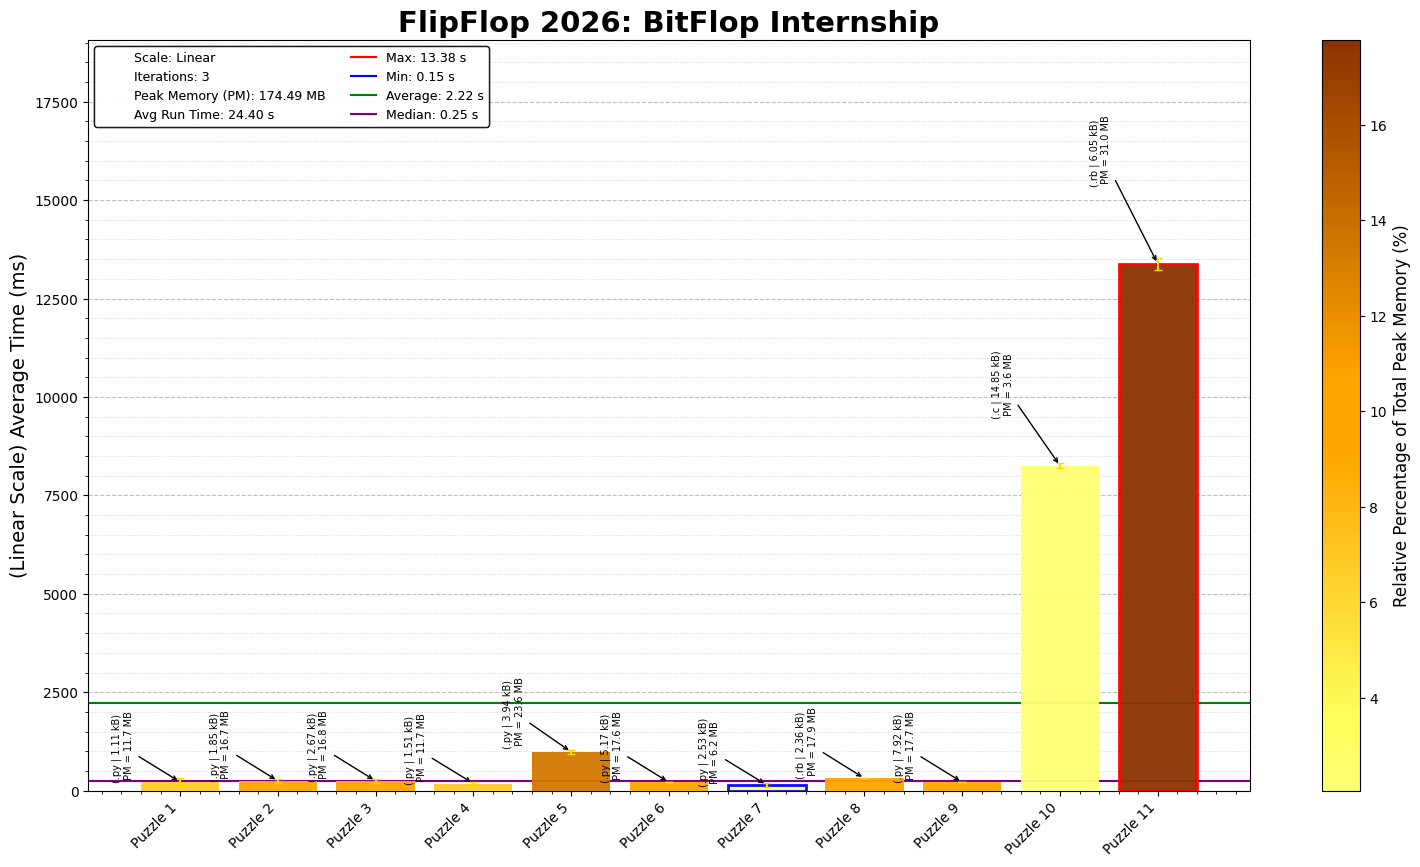
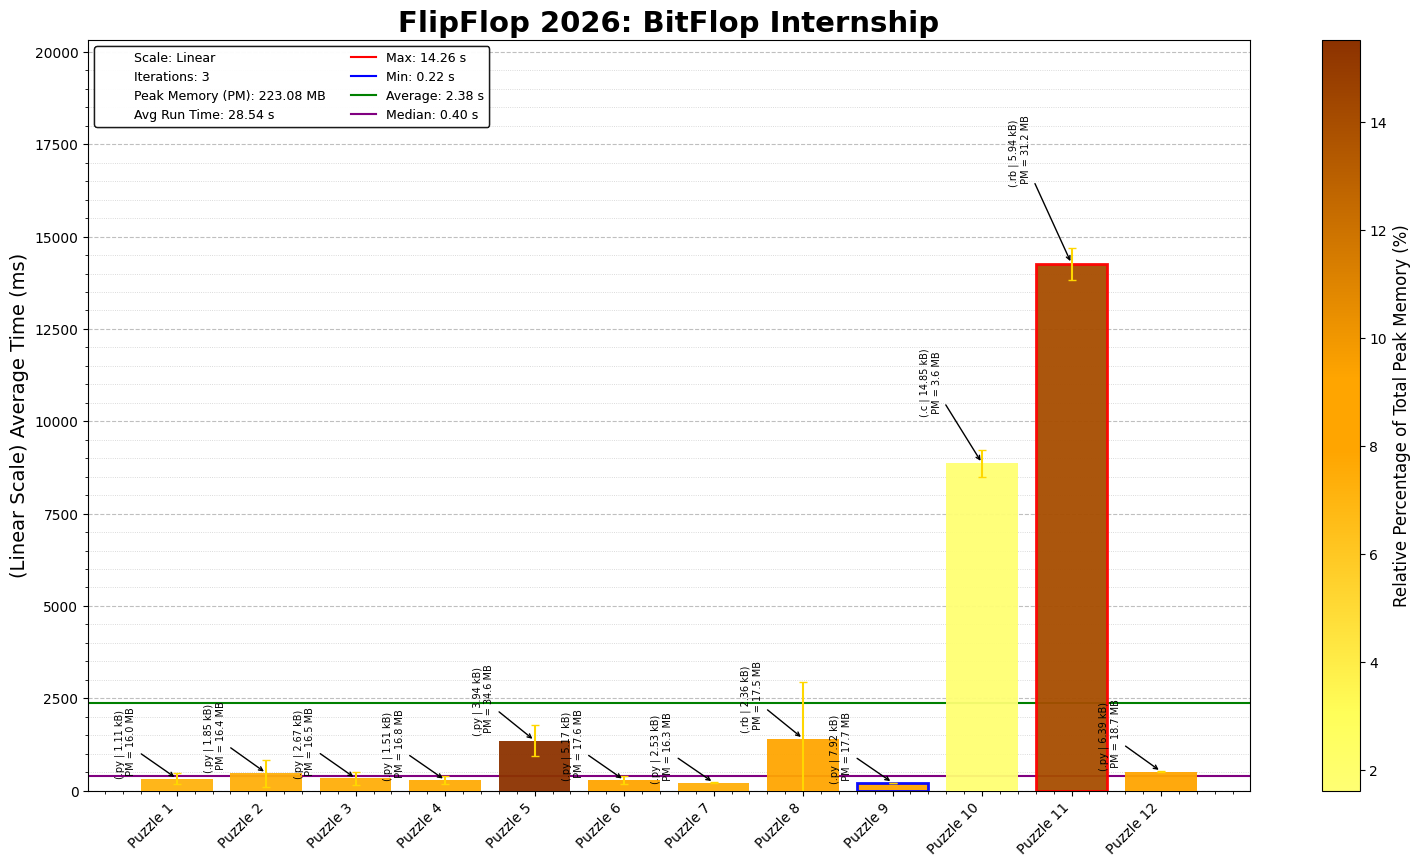
FlipFlop 2026 FINISHED

diff --git a/flipflop/2026/Puzzle_12/flipflop26_12.py b/flipflop/2026/Puzzle_12/flipflop26_12.py
@@ -15,20 +15,47 @@ input_path = Path(__file__).parent / input_file
 with input_path.open("r", encoding="utf-8") as f:
     data = f.read().split("\n\n")
 
-
 class FlipFlopBingo:
     def __init__(self, bingo_cards):
         self.bingo_cards = bingo_cards
 
     @staticmethod
-    def parse_2d_cards(bingo_cards):
+    def _check_bingos(marked_cards, valid_bingos):
+        bingo_count = 0
+        for marks in marked_cards.values():
+            for possible_bingo in valid_bingos:
+                if set(possible_bingo) <= marks:
+                    bingo_count += 1
+        return bingo_count
+
+    def play_bingo(self, calls, bingo_type = "2d"):
+        if bingo_type == "4d":
+            val_pos = self.parse_4d_cards(self.bingo_cards)
+            valid_bingos = self._find_4d_bingos(5, 5, 5, 5)
+        elif bingo_type == "3d":
+            val_pos = self._parse_3d_cards(self.bingo_cards)
+            valid_bingos = self._find_3d_bingos(5, 5, 5)
+        else:
+            val_pos = self._parse_2d_cards(self.bingo_cards)
+            valid_bingos = self._find_2d_bingos(5, 5)
+
+        marked_cards = defaultdict(set)
+        for val in calls.split():
+            for card_no, coord in val_pos[int(val)]:
+                marked_cards[card_no].add(coord)
+            if self._check_bingos(marked_cards, valid_bingos) >= 5:
+                return val
+        return -1
+
+    @staticmethod
+    def _parse_2d_cards(bingo_cards):
         val_pos = defaultdict(list)
         for card_no, card_data in enumerate(bingo_cards.split("\n")):
             numbers = [int(n) for n in card_data.split()]
             rows = [numbers[i:i + 5] for i in range(0, len(numbers), 5)]
             for row_no, row_data in enumerate(rows):
                 for col_no, val in enumerate(row_data):
-                    val_pos[int(val)].append((card_no, row_no, col_no))
+                    val_pos[int(val)].append((card_no, (row_no, col_no)))
         return val_pos
 
     @staticmethod
@@ -43,27 +70,91 @@ class FlipFlopBingo:
         return rows + cols + diagonals
 
     @staticmethod
-    def _check_bingos(marked_cards, valid_bingos):
-        bingo_count = 0
-        for marks in marked_cards.values():
-            for possible_bingo in valid_bingos:
-                if set(possible_bingo) <= marks:
-                    bingo_count += 1
-        return bingo_count
+    def _parse_3d_cards(bingo_cards):
+        val_pos = defaultdict(list)
+        grids = []
+        for line in bingo_cards.split("\n"):
+            numbers = [int(n) for n in line.split()]
+            rows = [numbers[i:i + 5] for i in range(0, len(numbers), 5)]
+            grids.append(rows)
+        cubes = [grids[i:i + 5] for i in range(0, len(grids), 5)]
 
-    def play_bingo(self, calls):
-        val_pos = self.parse_2d_cards(self.bingo_cards)
-        valid_bingos = self._find_2d_bingos(5, 5)
+        for cube_no, cube in enumerate(cubes):
+            for depth, grid in enumerate(cube):
+                for row_no, row in enumerate(grid):
+                    for col_no, val in enumerate(row):
+                        val_pos[val].append((cube_no,( row_no, col_no, depth)))
+        return val_pos
 
-        marked_cards = defaultdict(set)
-        for val in calls.split():
-            for card_no, row, col in val_pos[int(val)]:
-                marked_cards[card_no].add((row, col))
-            if self._check_bingos(marked_cards, valid_bingos) >= 5:
-                return val
-        return -1
+    @staticmethod
+    def _find_3d_bingos(total_rows, total_cols, total_depth, line_len=5):
+        dirs = [
+            (dx, dy, dz)
+            for dx in (-1, 0, 1) for dy in (-1, 0, 1) for dz in (-1, 0, 1)
+            if (dx, dy, dz) != (0, 0, 0)
+        ]
+        lines = set()
+        for x in range(total_rows):
+            for y in range(total_cols):
+                for z in range(total_depth):
+                    for dx, dy, dz in dirs:
+                        cells = [(x + dx*i, y + dy*i, z + dz*i) for i in range(line_len)]
+                        if all(0 <= cx < total_rows and 0 <= cy < total_cols and 0 <= cz < total_depth
+                            for cx, cy, cz in cells):
+                            lines.add(frozenset(cells))
+        return [sorted(line) for line in lines]
+
+    @staticmethod
+    def parse_4d_cards(bingo_cards):
+        val_pos = defaultdict(list)
+        grids = []
+        for line in bingo_cards.split("\n"):
+            numbers = [int(n) for n in line.split()]
+            rows = [numbers[i:i + 5] for i in range(0, len(numbers), 5)]
+            grids.append(rows)
+
+        cubes = [grids[i:i + 5] for i in range(0, len(grids), 5)]
+        hypercubes = [cubes[i:i + 5] for i in range(0, len(cubes), 5)]
+
+        for hc_no, hypercube in enumerate(hypercubes):
+            for w, cube in enumerate(hypercube):
+                for depth, grid in enumerate(cube):
+                    for row_no, row in enumerate(grid):
+                        for col_no, val in enumerate(row):
+                            val_pos[val].append((hc_no, (row_no, col_no, depth, w)))
+        return val_pos
+
+    @staticmethod
+    def _find_4d_bingos(total_rows, total_cols, total_depth, total_trice, line_len=5):
+        dirs = [
+            (dx, dy, dz, dw)
+            for dx in (-1, 0, 1)
+            for dy in (-1, 0, 1)
+            for dz in (-1, 0, 1)
+            for dw in (-1, 0, 1)
+            if (dx, dy, dz, dw) != (0, 0, 0, 0)
+        ]
+        lines = set()
+        for x in range(total_rows):
+            for y in range(total_cols):
+                for z in range(total_depth):
+                    for w in range(total_trice):
+                        for dx, dy, dz, dw in dirs:
+                            cells = [
+                                (x + dx*i, y + dy*i, z + dz*i, w + dw*i)
+                                for i in range(line_len)
+                            ]
+                            if all(
+                                0 <= cx < total_rows and 0 <= cy < total_cols
+                                and 0 <= cz < total_depth and 0 <= cw < total_trice
+                                for cx, cy, cz, cw in cells
+                            ):
+                                lines.add(frozenset(cells))
+        return [sorted(line) for line in lines]
 
 flip_bingo = FlipFlopBingo(data[1])
 
 print("FlipFlop 2026, Puzzle 12")
-print("Part 1:", flip_bingo.play_bingo(data[0]))
+print("Part 1:", flip_bingo.play_bingo(data[0], "2d"))
+print("Part 2:", flip_bingo.play_bingo(data[0], "3d"))
+print("Part 3:", flip_bingo.play_bingo(data[0], "4d"))

diff --git a/README.md b/README.md
@@ -19,6 +19,6 @@ This project contains a Python script (`CreateScript.py`) that can be used to cr
 | [Cryptopals](https://mng.quest/)      | Challenges | [Link](https://github.com/abbasmoosajee07/cryptopals) | 66       | 9         | Ongoing  |
 | [Eldarverse](https://www.eldarverse.com/)      | Challenges | [Link](/eldarverse/sep_25/) | 14       | 14         | Done(sep-25)  |
 | [AquaQ Challenges](https://challenges.aquaq.co.uk/)      | Challenges | [Link](/AquaQ/) | 41       | 3         | Ongoing  |
-| [FlipFlop Codes](https://flipflop.slome.org/)      | Puzzles | [Link](/flipflop/) | 25, 26       | 2         | Ongoing  |
+| [FlipFlop Codes](https://flipflop.slome.org/)      | Puzzles | [Link](/flipflop/) | 25, 26       | 2         | Completed  |
 -------------
 
